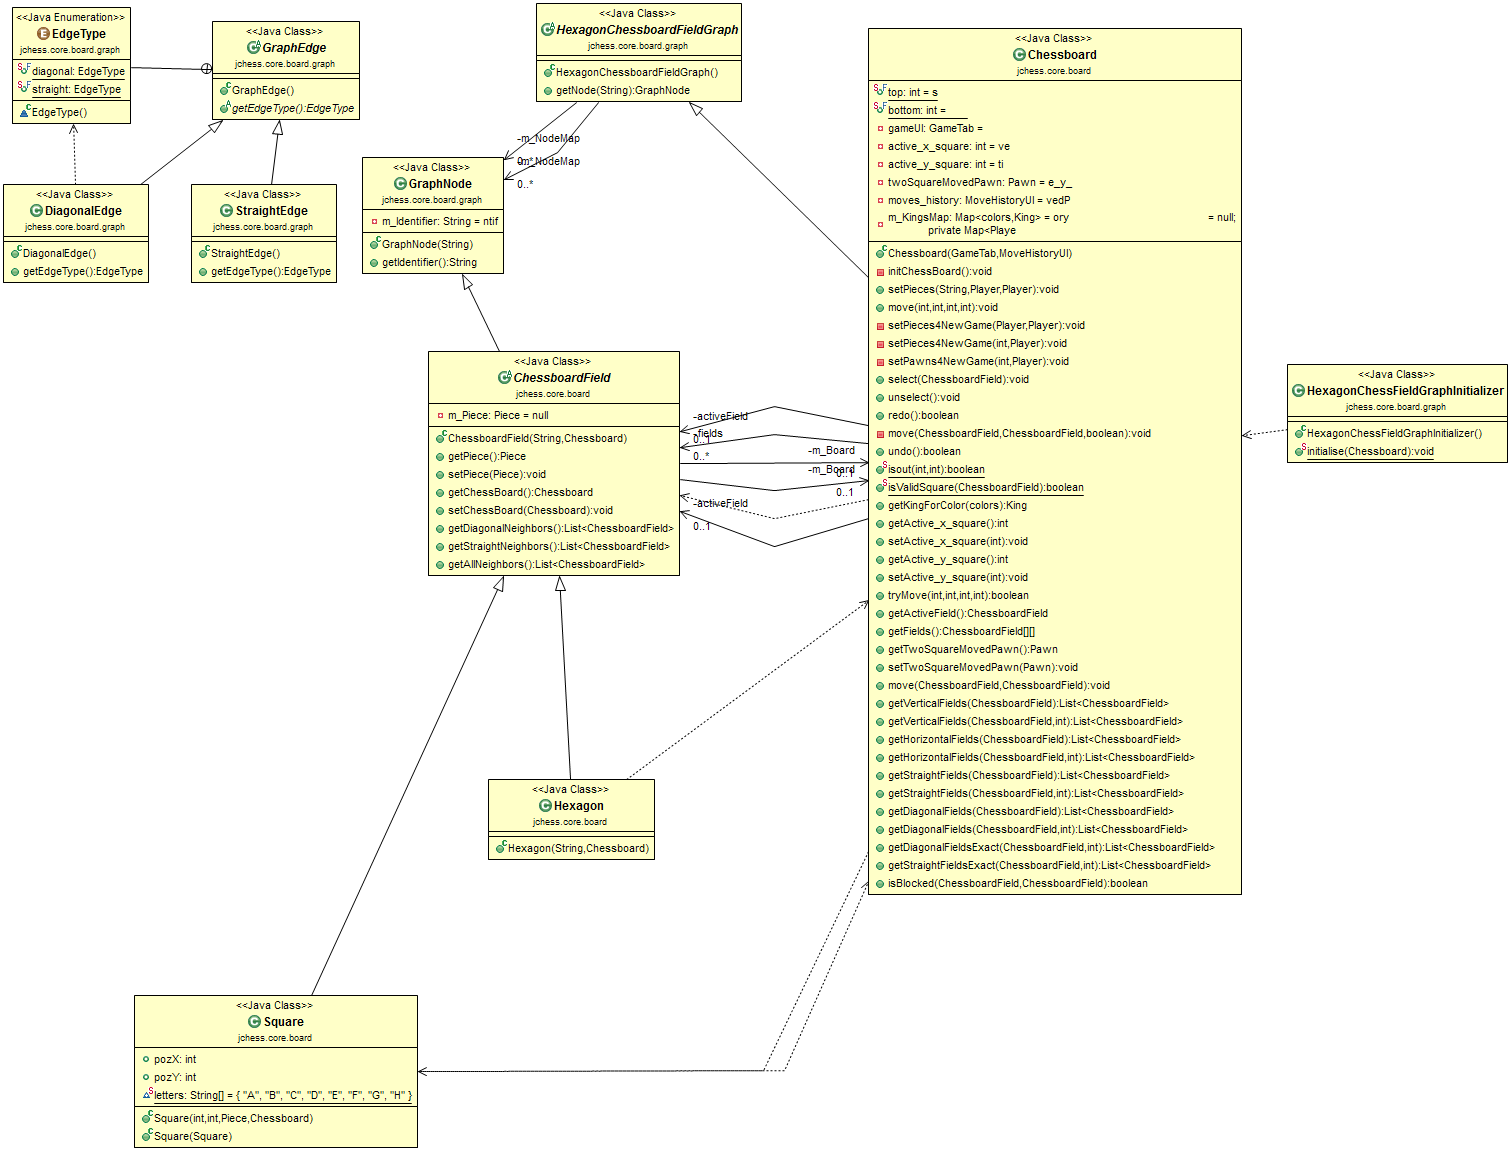
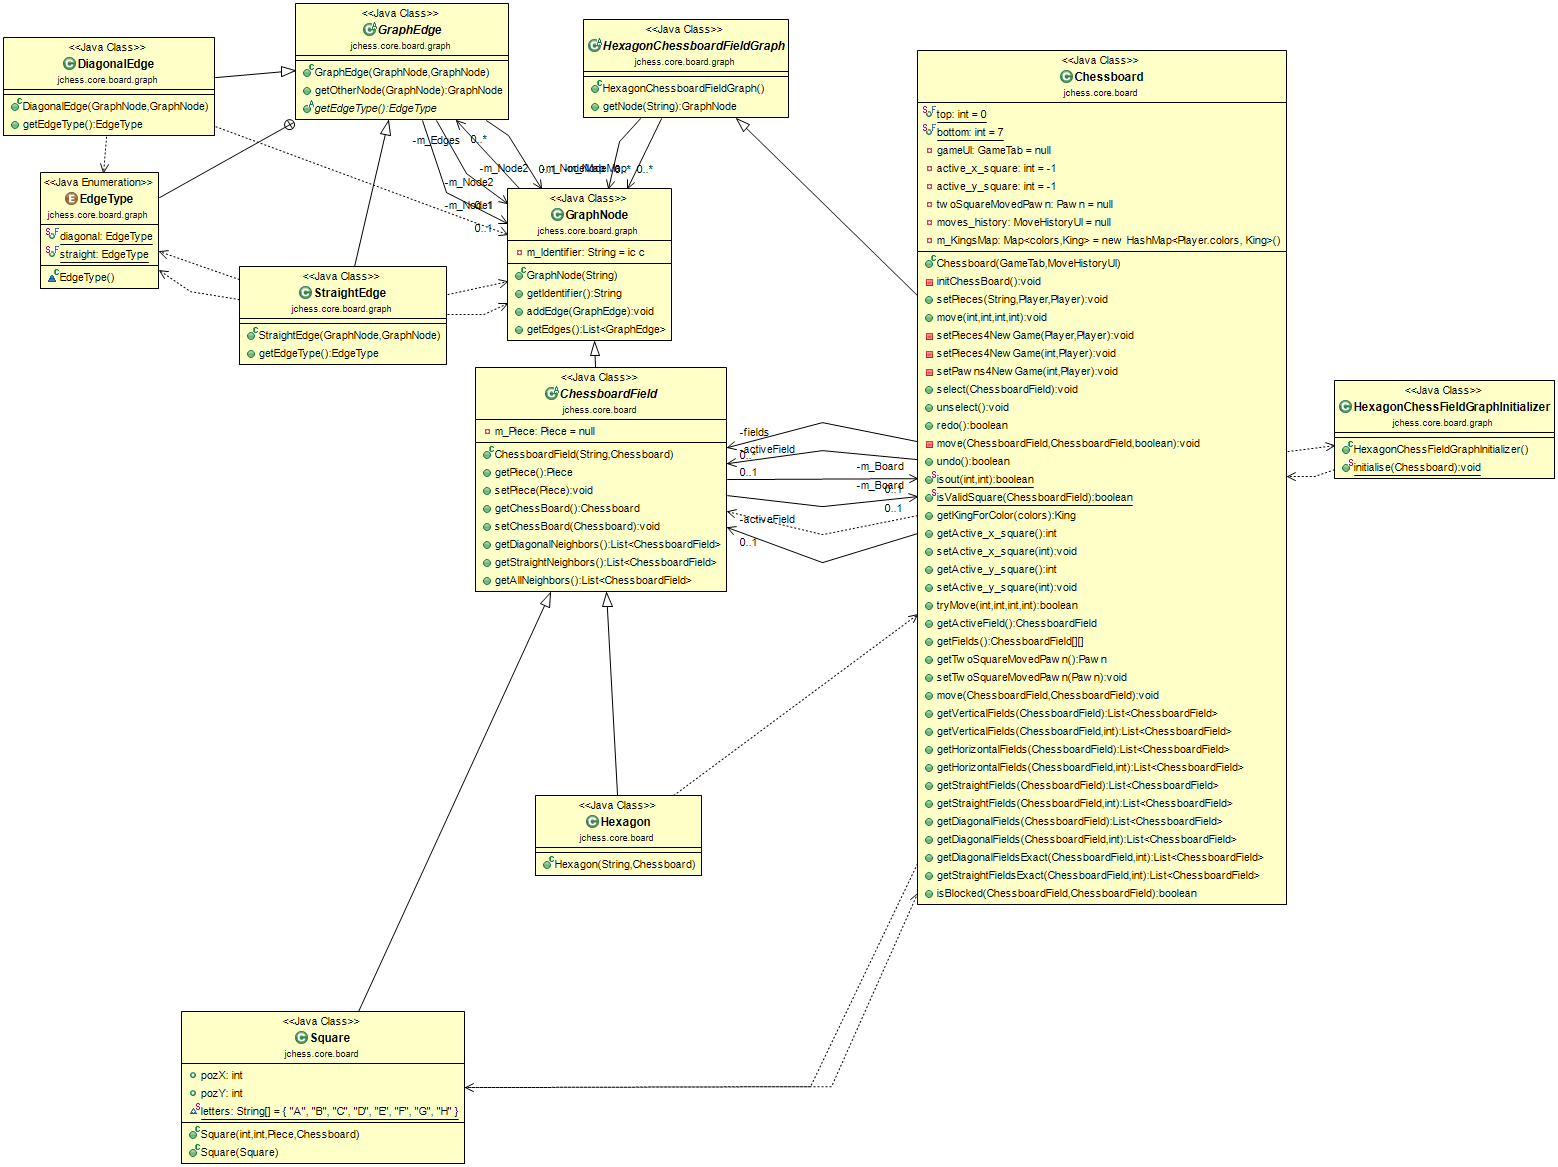
Implement graph data structure

diff --git a/Chess_Project/tests/jchess/core/board/graph/GraphEdgeTest.java b/Chess_Project/tests/jchess/core/board/graph/GraphEdgeTest.java
@@ -1,0 +1,46 @@
+package jchess.core.board.graph;
+
+import junit.framework.Assert;
+
+import org.junit.Test;
+
+public class GraphEdgeTest {
+
+	@Test
+	public void testGetOtherNode() throws Exception {
+		GraphNode first = new GraphNode("H2");
+		GraphNode second = new GraphNode("F5");
+		GraphNode third = new GraphNode("F5");
+		DiagonalEdge edge = new DiagonalEdge(first, second);
+
+		Assert.assertEquals(first, edge.getOtherNode(second));
+		Assert.assertEquals(second, edge.getOtherNode(first));
+		boolean exception = false;
+		try {
+			Assert.assertEquals(null, edge.getOtherNode(null));
+		} catch (Exception e) {
+			exception = true;
+			Assert.assertEquals("Given node is not part of this edge.", e.getMessage());
+		}
+		Assert.assertTrue(exception);
+
+		exception = false;
+		try {
+			Assert.assertEquals(first, edge.getOtherNode(third));
+		} catch (Exception e) {
+			exception = true;
+			Assert.assertEquals("Given node is not part of this edge.", e.getMessage());
+		}
+		Assert.assertTrue(exception);
+
+	}
+
+	@Test
+	public void testGetEdgeType() throws Exception {
+		DiagonalEdge edge = new DiagonalEdge(new GraphNode("H2"), new GraphNode("F5"));
+		Assert.assertEquals(GraphEdge.EdgeType.diagonal, edge.getEdgeType());
+
+		StraightEdge edqe1 = new StraightEdge(new GraphNode("H2"), new GraphNode("F5"));
+		Assert.assertEquals(GraphEdge.EdgeType.straight, edqe1.getEdgeType());
+	}
+}

diff --git a/Chess_Project/tests/jchess/AllTests.java b/Chess_Project/tests/jchess/AllTests.java
@@ -1,6 +1,7 @@
 package jchess;
 
 import jchess.core.board.ChessboardTest;
+import jchess.core.board.graph.GraphEdgeTest;
 import jchess.core.pieces.PawnTest;
 import jchess.core.pieces.PieceTest;
 import jchess.core.util.ClockTest;
@@ -12,7 +13,7 @@ import org.junit.runners.Suite;
 import org.junit.runners.Suite.SuiteClasses;
 
 @RunWith(Suite.class)
-@SuiteClasses({ SettingsTest.class, ChessboardTest.class, PawnTest.class, PieceTest.class, ThemeTest.class, ClockTest.class })
+@SuiteClasses({ GraphEdgeTest.class, SettingsTest.class, ChessboardTest.class, PawnTest.class, PieceTest.class, ThemeTest.class, ClockTest.class })
 public class AllTests {
 
 }

diff --git a/Chess_Project/src/jchess/core/board/graph/GraphEdge.java b/Chess_Project/src/jchess/core/board/graph/GraphEdge.java
@@ -2,10 +2,28 @@ package jchess.core.board.graph;
 
 public abstract class GraphEdge {
 
-	// TODO
+	private GraphNode	m_Node1	= null;
+	private GraphNode	m_Node2	= null;
 
 	enum EdgeType {
 		diagonal, straight
+	}
+
+	public GraphEdge(GraphNode node1, GraphNode node2) {
+		m_Node1 = node1;
+		m_Node2 = node2;
+	}
+
+	public GraphNode getOtherNode(GraphNode node) throws Exception {
+		GraphNode result = null;
+		if (node == m_Node1) {
+			result = m_Node2;
+		} else if (node == m_Node2) {
+			result = m_Node1;
+		} else {
+			throw new Exception("Given node is not part of this edge.");
+		}
+		return result;
 	}
 
 	/**

diff --git a/Chess_Project/src/jchess/core/board/graph/GraphNode.java b/Chess_Project/src/jchess/core/board/graph/GraphNode.java
@@ -1,10 +1,12 @@
 package jchess.core.board.graph;
 
+import java.util.ArrayList;
+import java.util.List;
+
 public class GraphNode {
 
-	// TODO add edges
-
-	private String	m_Identifier	= null;
+	private String					m_Identifier	= null;
+	private List<GraphEdge>	m_Edges				= new ArrayList<GraphEdge>();
 
 	public GraphNode(String identifier) {
 		m_Identifier = identifier;
@@ -12,5 +14,13 @@ public class GraphNode {
 
 	public String getIdentifier() {
 		return m_Identifier;
+	}
+
+	public void addEdge(GraphEdge edge) {
+		m_Edges.add(edge);
+	}
+
+	public List<GraphEdge> getEdges() {
+		return m_Edges;
 	}
 }

diff --git a/Chess_Project/src/jchess/core/board/Chessboard.java b/Chess_Project/src/jchess/core/board/Chessboard.java
@@ -211,7 +211,9 @@ public class Chessboard extends HexagonChessboardFieldGraph {
 		this.setActive_y_square(0);
 		this.activeField = null;
 
-		gameUI.getChessboardUI().repaint();
+		if (gameUI.getChessboardUI() != null) {
+			gameUI.getChessboardUI().repaint();
+		}
 	}
 
 	public boolean redo() throws Exception {

diff --git a/Chess_Project/src/jchess/core/board/graph/DiagonalEdge.java b/Chess_Project/src/jchess/core/board/graph/DiagonalEdge.java
@@ -2,9 +2,12 @@ package jchess.core.board.graph;
 
 public class DiagonalEdge extends GraphEdge {
 
+	public DiagonalEdge(GraphNode node1, GraphNode node2) {
+		super(node1, node2);
+	}
+
 	@Override
 	public EdgeType getEdgeType() {
 		return EdgeType.diagonal;
 	}
-
 }

diff --git a/Chess_Project/src/jchess/core/board/graph/StraightEdge.java b/Chess_Project/src/jchess/core/board/graph/StraightEdge.java
@@ -1,7 +1,10 @@
 package jchess.core.board.graph;
 
-
 public class StraightEdge extends GraphEdge {
+
+	public StraightEdge(GraphNode node1, GraphNode node2) {
+		super(node1, node2);
+	}
 
 	@Override
 	public EdgeType getEdgeType() {
